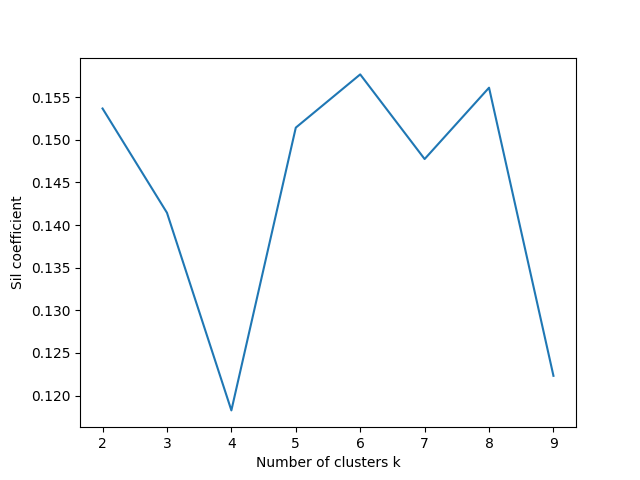
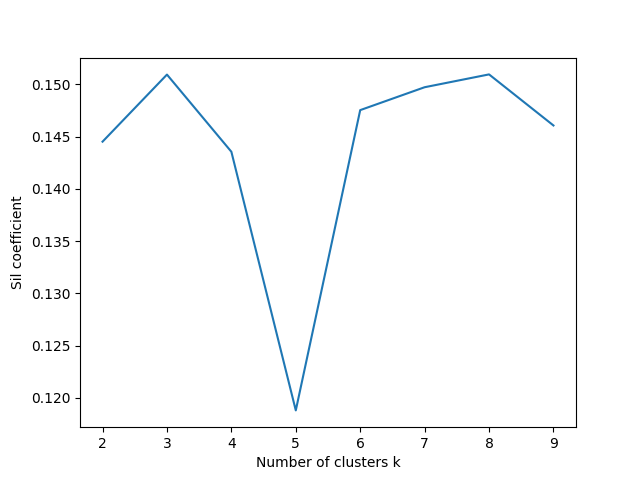
mod

diff --git a/assignment_2/KMeansSynthetic.py b/assignment_2/KMeansSynthetic.py
@@ -19,13 +19,15 @@ def load_dataset(file='dataset'):
 
         if len(dataset) < 2:
             raise ValueError("Dataset contains less than 2 data")
+        dataset_normalized = dataset / np.linalg.norm(dataset, axis=1, keepdims=True)
+
     except FileNotFoundError:
         print(f"File '{file}' not found")
         return None
     except ValueError:
         print(f"File '{file}' is corrupted or error file")
         return None
-    return dataset
+    return dataset_normalized
 
 
 """
@@ -55,10 +57,8 @@ function which will choose initial cluster representatives or clusters.
 Output: Randomly selected centroids within a data in the initial step.
 """
 def initialSelection(data, k):
-    centroids = []
-    for i in range(k):
-        centroid = data[random.randint(0, 149)]
-        centroids.append(centroid)
+    initial_centroids = np.random.permutation(data.shape[0])[:k]    
+    centroids = data[initial_centroids]
     return centroids
 
 
@@ -68,9 +68,7 @@ function to computing the distance between two points, distance calculated by Eu
 Output: Euclidean distance
 """
 def ComputeDistance(vec_1, vec_2):
-    temp = vec_1 - vec_2
-    distance = np.sqrt(np.dot(temp.T, temp))
-    return distance
+    return np.linalg.norm(vec_1 - vec_2, axis=0)
 
 
 """
@@ -79,18 +77,12 @@ function that will assign cluster ids to each data point.
 Output: Updated Centroids indexes to cluster data
 """
 def assignClusterIds(data, centroids):
-    cluster_assignments = []
-
-    for d in data:
-        dist_point_clust = []
-        for centroid in centroids:
-            distance = ComputeDistance(d, centroid)
-            dist_point_clust.append(distance)
-        
-        assignment = np.argmin(dist_point_clust)
-        cluster_assignments.append(assignment)
-
-    return cluster_assignments   
+    clusters = []
+    for point in data:
+        distances = [ComputeDistance(point, centroid) for centroid in centroids]
+        cluster_id = distances.index(min(distances))
+        clusters.append(cluster_id)
+    return clusters 
 
 
 """
@@ -174,11 +166,11 @@ def plot_silhouttee():
     dataset = load_dataset()
     syn_data = generate_synthetic_data(dataset, 4)
     s_cs = []
-    for k in range(1, 10):
+    for k in range(2, 10):
         cluster_representatives = KMeansSynthetic(syn_data, k)
         sl_coef = silhouette_coefficient(syn_data, cluster_representatives)
         s_cs.append(sl_coef)
-    x = np.arange(start=1, stop=10, step=1)
+    x = np.arange(start=2, stop=10, step=1)
     plt.plot(x, s_cs)
     plt.xlabel('Number of clusters k')
     plt.ylabel("Sil coefficient")

diff --git a/assignment_2/KMeansplusplus.py b/assignment_2/KMeansplusplus.py
@@ -20,13 +20,15 @@ def load_dataset(file='dataset'):
 
         if len(dataset) < 2:
             raise ValueError("Dataset contains less than 2 data")
+        dataset_normalized = dataset / np.linalg.norm(dataset, axis=1, keepdims=True)
+
     except FileNotFoundError:
         print(f"File '{file}' not found")
         return None
     except ValueError:
         print(f"File '{file}' is corrupted or error file")
         return None
-    return dataset
+    return dataset_normalized
 
 """
 function which will choose initial cluster representatives or clusters. 
@@ -53,9 +55,7 @@ function to computing the distance between two points, distance calculated by Eu
 Output: Euclidean distance
 """
 def ComputeDistance(vec_1, vec_2):
-    temp = vec_1 - vec_2
-    distance = np.sqrt(np.dot(temp.T, temp))
-    return distance
+    return np.linalg.norm(vec_1 - vec_2, axis=0)
 
 
 """
@@ -64,18 +64,12 @@ function that will assign cluster ids to each data point.
 Output: Updated Centroids indexes to cluster data
 """
 def assignClusterIds(data, centroids):
-    cluster_assignments = []
-
-    for d in data:
-        dist_point_clust = []
-        for centroid in centroids:
-            distance = ComputeDistance(d, centroid)
-            dist_point_clust.append(distance)
-        
-        assignment = np.argmin(dist_point_clust)
-        cluster_assignments.append(assignment)
-
-    return cluster_assignments   
+    clusters = []
+    for point in data:
+        distances = [ComputeDistance(point, centroid) for centroid in centroids]
+        cluster_id = distances.index(min(distances))
+        clusters.append(cluster_id)
+    return clusters   
 
 
 """
@@ -157,11 +151,11 @@ Output: Plot of vertical silhouette_coefficient and horizontal number of cluster
 def plot_silhouttee():
     dataset = load_dataset()
     s_cs = []
-    for k in range(1, 10):
+    for k in range(2, 10):
         cluster_representatives = KMeanspp(dataset, k)
         sl_coef = silhouette_coefficient(dataset, cluster_representatives)
         s_cs.append(sl_coef)
-    x = np.arange(start=1, stop=10, step=1)
+    x = np.arange(start=2, stop=10, step=1)
     plt.plot(x, s_cs)
     plt.xlabel('Number of clusters k')
     plt.ylabel("Sil coefficient")

diff --git a/assignment_2/KMeans.py b/assignment_2/KMeans.py
@@ -38,10 +38,8 @@ function which will choose initial cluster representatives or clusters.
 Output: Randomly selected centroids within a data in the initial step.
 """
 def initialSelection(data, k):
-    centroids = []
-    while len(centroids) < k:
-        centroid = data[random.randint(0, 149)]
-        centroids.append(centroid)
+    initial_centroids = np.random.permutation(data.shape[0])[:k]    
+    centroids = data[initial_centroids]
     return centroids
 
 
@@ -51,9 +49,7 @@ function to computing the distance between two points, distance calculated by Eu
 Output: Euclidean distance
 """
 def ComputeDistance(vec_1, vec_2):
-    temp = vec_1 - vec_2
-    distance = np.sqrt(np.dot(temp.T, temp))
-    return distance
+    return np.linalg.norm(vec_1 - vec_2, axis=0)
 
 
 """
@@ -62,18 +58,12 @@ function that will assign cluster ids to each data point.
 Output: Updated Centroids indexes to cluster data
 """
 def assignClusterIds(data, centroids):
-    cluster_assignments = []
-
-    for d in data:
-        dist_point_clust = []
-        for centroid in centroids:
-            distance = ComputeDistance(d, centroid)
-            dist_point_clust.append(distance)
-        
-        assignment = np.argmin(dist_point_clust)
-        cluster_assignments.append(assignment)
-
-    return cluster_assignments   
+    clusters = []
+    for point in data:
+        distances = [ComputeDistance(point, centroid) for centroid in centroids]
+        cluster_id = distances.index(min(distances))
+        clusters.append(cluster_id)
+    return clusters  
 
 
 """
@@ -157,15 +147,14 @@ Output: Plot of vertical silhouette_coefficient and horizontal number of cluster
 def plot_silhouttee():
     dataset = load_dataset()
     s_cs = []
-    for k in range(1, 10):
+    for k in range(2, 10):
         cluster_representatives = KMeans(dataset, k)
         sl_coef = silhouette_coefficient(dataset, cluster_representatives)
         s_cs.append(sl_coef)
-    x = np.arange(start=1, stop=10, step=1)
+    x = np.arange(start=2, stop=10, step=1)
     plt.plot(x, s_cs)
     plt.xlabel('Number of clusters k')
     plt.ylabel("Sil coefficient")
-    # plt.show()
     plt.savefig('kmeans.png')
 
 """

diff --git a/assignment_2/BisectingKMeans.py b/assignment_2/BisectingKMeans.py
@@ -59,9 +59,7 @@ function to computing the distance between two points, distance calculated by Eu
 Output: Euclidean distance
 """
 def ComputeDistance(vec_1, vec_2):
-    temp = vec_1 - vec_2
-    distance = np.sqrt(np.dot(temp.T, temp))
-    return distance
+    return np.linalg.norm(vec_1 - vec_2, axis=0)
 
 
 """
@@ -70,18 +68,12 @@ function that will assign cluster ids to each data point.
 Output: Updated Centroids indexes to cluster data
 """
 def assignClusterIds(data, centroids):
-    cluster_assignments = []
-
-    for d in data:
-        dist_point_clust = []
-        for centroid in centroids:
-            distance = ComputeDistance(d, centroid)
-            dist_point_clust.append(distance)
-        
-        assignment = np.argmin(dist_point_clust)
-        cluster_assignments.append(assignment)
-
-    return cluster_assignments   
+    clusters = []
+    for point in data:
+        distances = [ComputeDistance(point, centroid) for centroid in centroids]
+        cluster_id = distances.index(min(distances))
+        clusters.append(cluster_id)
+    return clusters  
 
 
 """
